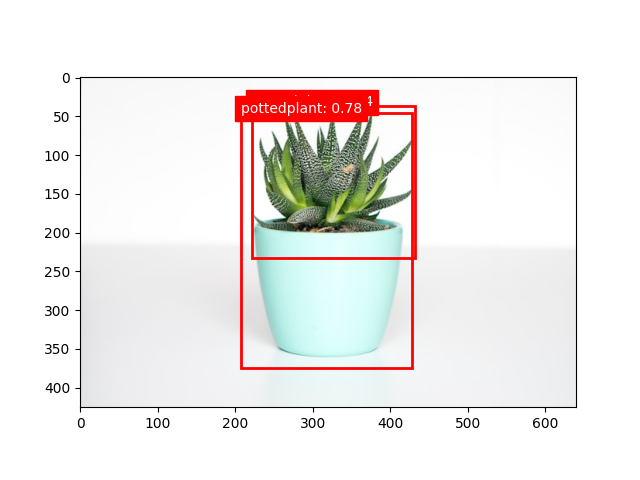
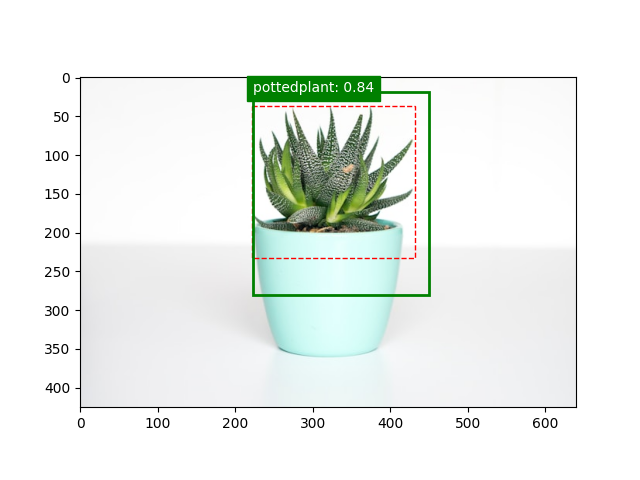
Added NMS

Changed region(s): [[0.3438, 0.1562, 0.6875, 0.7812]]

diff --git a/main.py b/main.py
@@ -8,7 +8,11 @@ import matplotlib.pyplot as plt
 import matplotlib.patches as patches
 
 from config.config import Config
+
 from utils.extract_regions import extract_region_proposals
+from utils.bbox_transform import bbox_transform_inv
+from utils.nms import nms
+
 from models.RCNN import RCNN
 
 from utils.vs_region_proposls import visualize_region_proposals
@@ -28,18 +32,18 @@ class Main:
     self.model.eval()
     print("Model loaded successfully")
 
-
   def object_detection(self, image_path, save_path=None, show=False):
     print(f"Processing image: {image_path}")
-    img, proposals = extract_region_proposals(image_path, max_proposals=150)
+    img, proposals = extract_region_proposals(image_path, max_proposals=2000)
 
     visualize_region_proposals(image_path, proposals)
 
     print(f"Extracted {len(proposals)} region proposals")
 
-    detected_boxes = []
-    detected_scores = []
-    detected_classes = []
+    all_boxes = []
+    all_scores = []
+    all_classes = []
+    all_refined_boxes = []
 
     for i, proposal in enumerate(proposals):
         x1, y1, x2, y2 = proposal
@@ -48,37 +52,73 @@ class Main:
 
         with torch.no_grad():
             cls_pred, bbox_pred = self.model(transformed_img)
-            print(f"Processed proposal {i+1}/{len(proposals)}")
+            print(f"Processed proposal {i + 1}/{len(proposals)}")
 
-        # Get prediction
-        score, class_idx = torch.max(torch.softmax(cls_pred, dim=0), dim=0)
-        score = score.item()
-        class_idx = class_idx.item()
+        probs = torch.softmax(cls_pred, dim=1)
 
-        # Skip background class
-        if class_idx == 0 or score < 0.5:
+        for class_idx in range(1, Config.NUM_CLASSES):  # Skip background class
+            score = probs[0, class_idx].item()
+            if score < 0.5:
+                continue
+
+            bbox_offset = bbox_pred[0, (class_idx - 1) * 4: class_idx * 4]
+            proposal_tensor = torch.tensor([proposal], dtype=torch.float32).to(self.device)
+            refined_box = bbox_transform_inv(proposal_tensor, bbox_offset.unsqueeze(0))[0]
+            refined_box = refined_box.cpu().numpy().tolist()
+
+            img_height, img_width = img.shape[:2]
+            refined_box[0] = max(0, min(refined_box[0], img_width - 1))
+            refined_box[1] = max(0, min(refined_box[1], img_height - 1))
+            refined_box[2] = max(0, min(refined_box[2], img_width - 1))
+            refined_box[3] = max(0, min(refined_box[3], img_height - 1))
+
+            all_boxes.append(proposal)
+            all_scores.append(score)
+            all_classes.append(class_idx)
+            all_refined_boxes.append(refined_box)
+
+    final_boxes = []
+    final_scores = []
+    final_classes = []
+    final_refined_boxes = []
+
+    for class_id in range(1, Config.NUM_CLASSES):
+        indices = [i for i, cls in enumerate(all_classes) if cls == class_id]
+        if not indices:
             continue
 
-        # You could also refine the bounding box here using `bbox_pred` if needed
-        detected_boxes.append(proposal)
-        detected_scores.append(score)
-        detected_classes.append(class_idx)
-        print(f"Detected object: {Config.VOC_CLASSES[class_idx]} with score {score:.2f}")
+        class_boxes = [all_refined_boxes[i] for i in indices]
+        class_scores = [all_scores[i] for i in indices]
 
-    if not detected_boxes:
+        keep_indices = nms(class_boxes, class_scores, threshold=0.3)
+
+        for idx in keep_indices:
+            orig_idx = indices[idx]
+            final_boxes.append(all_boxes[orig_idx])
+            final_scores.append(all_scores[orig_idx])
+            final_classes.append(all_classes[orig_idx])
+            final_refined_boxes.append(all_refined_boxes[orig_idx])
+
+    if not final_boxes:
         print("No objects detected in the image")
         return
 
-    # Visualize detections
     fig, ax = plt.subplots(1)
     ax.imshow(img)
 
-    for box, score, class_idx in zip(detected_boxes, detected_scores, detected_classes):
+    for box, refined_box, score, class_idx in zip(final_boxes, final_refined_boxes, final_scores, final_classes):
+        # Original proposal box (dashed red)
         x1, y1, x2, y2 = box
-        rect = patches.Rectangle((x1, y1), x2 - x1, y2 - y1, linewidth=2, edgecolor='r', facecolor='none')
+        rect = patches.Rectangle((x1, y1), x2 - x1, y2 - y1, linewidth=1, edgecolor='r', facecolor='none', linestyle='--')
         ax.add_patch(rect)
+
+        # Refined box (green)
+        rx1, ry1, rx2, ry2 = refined_box
+        refined_rect = patches.Rectangle((rx1, ry1), rx2 - rx1, ry2 - ry1, linewidth=2, edgecolor='g', facecolor='none')
+        ax.add_patch(refined_rect)
+
         class_name = Config.VOC_CLASSES[class_idx]
-        ax.text(x1, y1, f"{class_name}: {score:.2f}", color='white', backgroundcolor='r')
+        ax.text(rx1, ry1, f"{class_name}: {score:.2f}", color='white', backgroundcolor='g')
 
     if save_path:
         plt.savefig(save_path)
@@ -90,5 +130,5 @@ class Main:
 if __name__ == '__main__':
   model = RCNN(Config.NUM_CLASSES) 
   main = Main(model, 'weights/rcnn_model_with_bbox.pth')
-  # main.object_detection('images/plant.jpg', 'outputs/out-plant.png', show=True)
-  main.object_detection('data/VOC2007/JPEGImages/000002.jpg', 'outputs/out-002.png', show=True)
+  main.object_detection('images/plant.jpg', 'outputs/out-plant.png', show=True)
+  # main.object_detection('data/VOC2007/JPEGImages/000045.jpg', 'outputs/out-045.png', show=True)

diff --git a/utils/nms.py b/utils/nms.py
@@ -1,0 +1,26 @@
+import torch
+import numpy as np
+from utils.iou import calculate_iou
+
+def nms(boxes, scores, threshold=0.7):
+    """Apply non-maximum suppression"""
+    if len(boxes) == 0:
+        return []
+    
+    if isinstance(boxes, torch.Tensor):
+        boxes = boxes.cpu().numpy()
+    if isinstance(scores, torch.Tensor):
+        scores = scores.cpu().numpy()
+    
+    indices = np.argsort(scores)[::-1]
+    
+    keep = []
+    while indices.size > 0:
+        i = indices[0]
+        keep.append(i)
+        
+        ious = np.array([calculate_iou(boxes[i], boxes[j]) for j in indices[1:]])
+        
+        indices = indices[1:][ious <= threshold]
+    
+    return keep
